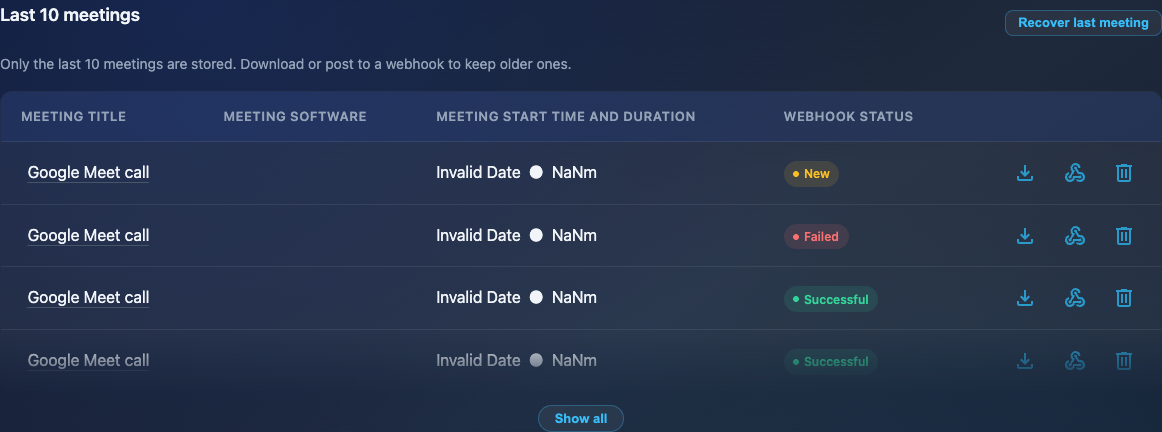
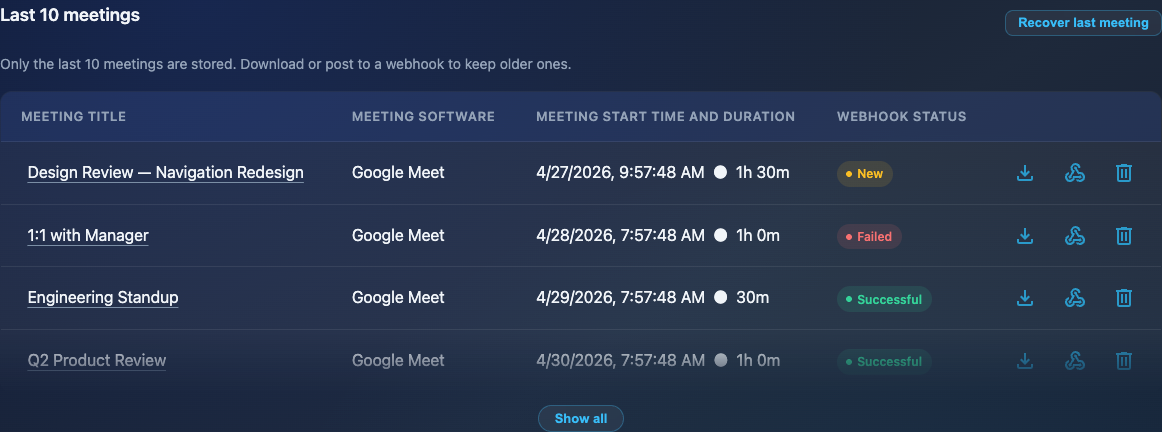
docs: update contributing guidelines and architecture documentation; enhance README with popup status details

diff --git a/tests/screenshots.spec.js b/tests/screenshots.spec.js
@@ -13,47 +13,47 @@ const OUT = path.join(__dirname, '../docs/assets');
 
 const MOCK_MEETINGS = [
   {
-    meetingSoftware: 'Google Meet',
-    meetingTitle: 'Q2 Product Review',
-    meetingStartTimestamp: new Date(Date.now() - 2 * 60 * 60 * 1000).toISOString(),
-    meetingEndTimestamp: new Date(Date.now() - 60 * 60 * 1000).toISOString(),
+    software: 'Google Meet',
+    title: 'Q2 Product Review',
+    startTimestamp: new Date(Date.now() - 2 * 60 * 60 * 1000).toISOString(),
+    endTimestamp: new Date(Date.now() - 60 * 60 * 1000).toISOString(),
     transcript: [
-      { personName: 'Sarah', timestamp: new Date(Date.now() - 2 * 60 * 60 * 1000).toISOString(), transcriptText: "Let's start with the roadmap update." },
-      { personName: 'Alex', timestamp: new Date(Date.now() - 119 * 60 * 1000).toISOString(), transcriptText: 'We shipped the new dashboard last week.' },
+      { personName: 'Sarah', timestamp: new Date(Date.now() - 2 * 60 * 60 * 1000).toISOString(), text: "Let's start with the roadmap update." },
+      { personName: 'Alex', timestamp: new Date(Date.now() - 119 * 60 * 1000).toISOString(), text: 'We shipped the new dashboard last week.' },
     ],
     chatMessages: [],
     webhookPostStatus: 'successful',
   },
   {
-    meetingSoftware: 'Google Meet',
-    meetingTitle: 'Engineering Standup',
-    meetingStartTimestamp: new Date(Date.now() - 26 * 60 * 60 * 1000).toISOString(),
-    meetingEndTimestamp: new Date(Date.now() - 25.5 * 60 * 60 * 1000).toISOString(),
+    software: 'Google Meet',
+    title: 'Engineering Standup',
+    startTimestamp: new Date(Date.now() - 26 * 60 * 60 * 1000).toISOString(),
+    endTimestamp: new Date(Date.now() - 25.5 * 60 * 60 * 1000).toISOString(),
     transcript: [
-      { personName: 'Jamie', timestamp: new Date(Date.now() - 26 * 60 * 60 * 1000).toISOString(), transcriptText: 'No blockers on my end.' },
+      { personName: 'Jamie', timestamp: new Date(Date.now() - 26 * 60 * 60 * 1000).toISOString(), text: 'No blockers on my end.' },
     ],
     chatMessages: [],
     webhookPostStatus: 'successful',
   },
   {
-    meetingSoftware: 'Google Meet',
-    meetingTitle: '1:1 with Manager',
-    meetingStartTimestamp: new Date(Date.now() - 50 * 60 * 60 * 1000).toISOString(),
-    meetingEndTimestamp: new Date(Date.now() - 49 * 60 * 60 * 1000).toISOString(),
+    software: 'Google Meet',
+    title: '1:1 with Manager',
+    startTimestamp: new Date(Date.now() - 50 * 60 * 60 * 1000).toISOString(),
+    endTimestamp: new Date(Date.now() - 49 * 60 * 60 * 1000).toISOString(),
     transcript: [
-      { personName: 'Jordan', timestamp: new Date(Date.now() - 50 * 60 * 60 * 1000).toISOString(), transcriptText: 'How are you feeling about the project timeline?' },
+      { personName: 'Jordan', timestamp: new Date(Date.now() - 50 * 60 * 60 * 1000).toISOString(), text: 'How are you feeling about the project timeline?' },
     ],
     chatMessages: [],
     webhookPostStatus: 'failed',
   },
   {
-    meetingSoftware: 'Google Meet',
-    meetingTitle: 'Design Review — Navigation Redesign',
-    meetingStartTimestamp: new Date(Date.now() - 72 * 60 * 60 * 1000).toISOString(),
-    meetingEndTimestamp: new Date(Date.now() - 70.5 * 60 * 60 * 1000).toISOString(),
+    software: 'Google Meet',
+    title: 'Design Review — Navigation Redesign',
+    startTimestamp: new Date(Date.now() - 72 * 60 * 60 * 1000).toISOString(),
+    endTimestamp: new Date(Date.now() - 70.5 * 60 * 60 * 1000).toISOString(),
     transcript: [],
     chatMessages: [
-      { personName: 'Pat', timestamp: new Date(Date.now() - 72 * 60 * 60 * 1000).toISOString(), chatMessageText: "Here's the Figma link: figma.com/..." },
+      { personName: 'Pat', timestamp: new Date(Date.now() - 72 * 60 * 60 * 1000).toISOString(), text: "Here's the Figma link: figma.com/..." },
     ],
     webhookPostStatus: 'new',
   },

diff --git a/docs/architecture.md b/docs/architecture.md
@@ -41,7 +41,7 @@ C4Container
     Container_Boundary(ext, "Meet Transcripts Extension (MV3)") {
         Container(bg, "Background Service Worker", "background.js", "Central orchestrator: meeting lifecycle, webhook dispatch, file download, storage management")
         Container(cs, "Content Script", "platforms/google-meet.js", "Injected into meet.google.com — observes DOM caption mutations and extracts speaker + text chunks")
-        Container(popup, "Popup UI", "popup.html / popup.js", "Mode toggle (auto / manual), link to meetings page")
+        Container(popup, "Popup UI", "popup.html / popup.js", "Mode toggle (auto / manual), tab-aware status display, link to meetings page")
         Container(meetings, "Meetings UI", "meetings.html / meetings.js", "Meeting history viewer and webhook configuration")
     }
 
@@ -88,7 +88,7 @@ C4Component
     }
 
     Container(cs, "Content Script", "platforms/google-meet.js", "Caption capture")
-    Container(popup, "Popup UI", "popup.html/js", "Mode toggle")
+    Container(popup, "Popup UI", "popup.html/js", "Mode toggle, tab-aware status")
     Container(meetings, "Meetings UI", "meetings.html/js", "History & config")
     ContainerDb(sync, "chrome.storage.sync", "Chrome Storage API", "Settings")
     ContainerDb(local, "chrome.storage.local", "Chrome Storage API", "Transcript data")

diff --git a/CONTRIBUTING.md b/CONTRIBUTING.md
@@ -62,8 +62,11 @@ The UI uses a **glassmorphism** style. Keep new UI consistent with the existing 
 | `--glass-border` | `rgba(255,255,255,0.1)` | Glass card borders |
 | `--text` | `#f1f5f9` | Primary text |
 | `--text-2` | `#94a3b8` | Secondary / muted text |
+| `--text-3` | `#7b8ea5` | Tertiary / footnote text — must stay ≥ 4.5:1 on `#0f172a` (WCAG AA) |
 
 Cards use `backdrop-filter: blur(20–24px)` with a `box-shadow` for depth. Do not introduce new colour values — extend via CSS variables.
+
+User feedback (success, error, info, confirm) is delivered via the `showToast` / `showConfirm` helpers in `meetings.js`. Do not use `alert()` or `confirm()` — they break the visual brand and block the page.
 
 ---
 

diff --git a/README.md b/README.md
@@ -67,6 +67,8 @@ The extension has two modes:
 
 At the end of a meeting the transcript is downloaded as a `.txt` file. Open the extension popup to view the last 10 meetings or configure a webhook.
 
+The popup detects whether your active tab is a Google Meet session and reflects the live status — pulsing blue when you're on a call, dimmed when you're not.
+
 ---
 
 ## Webhook integration
